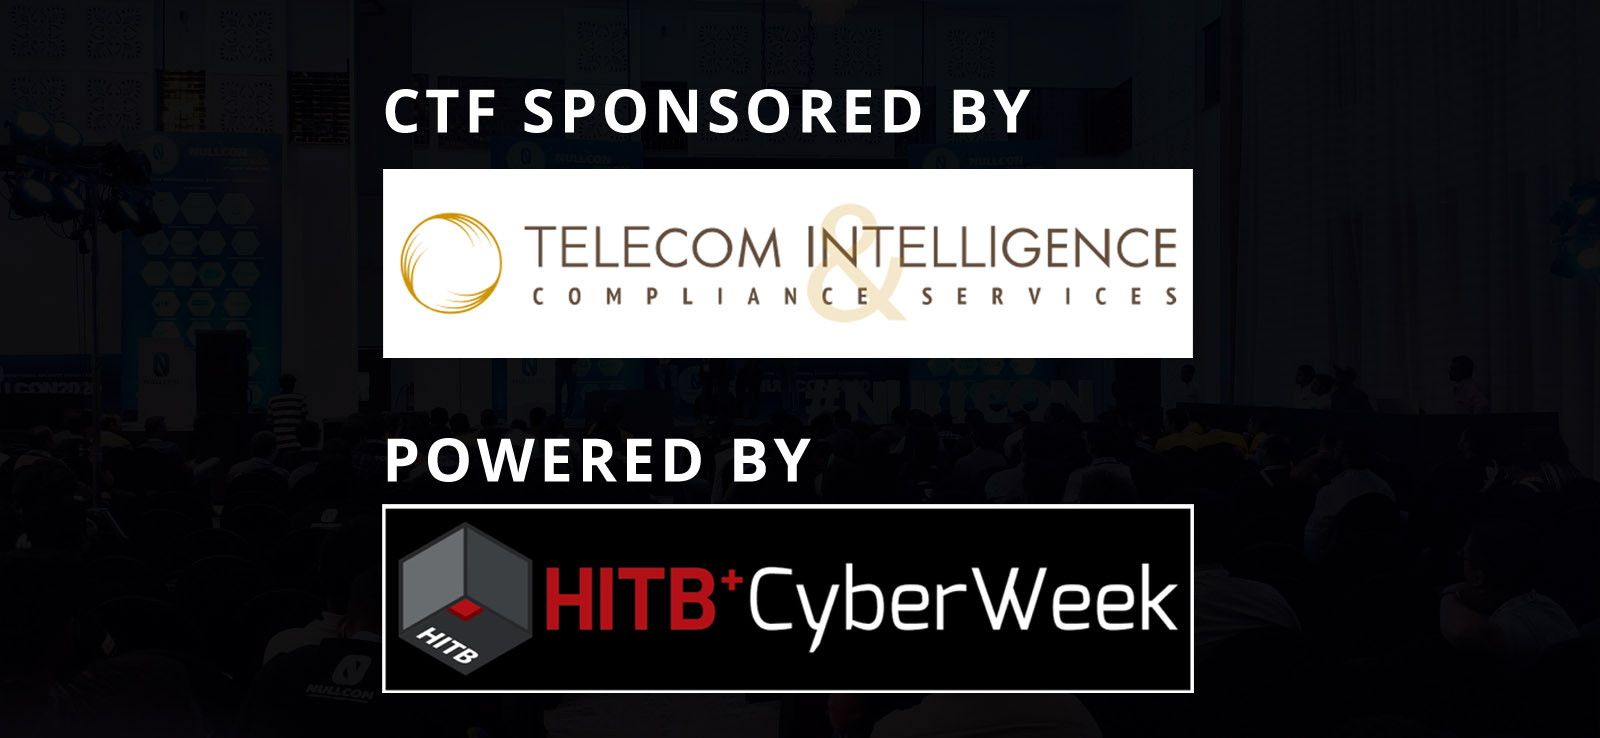
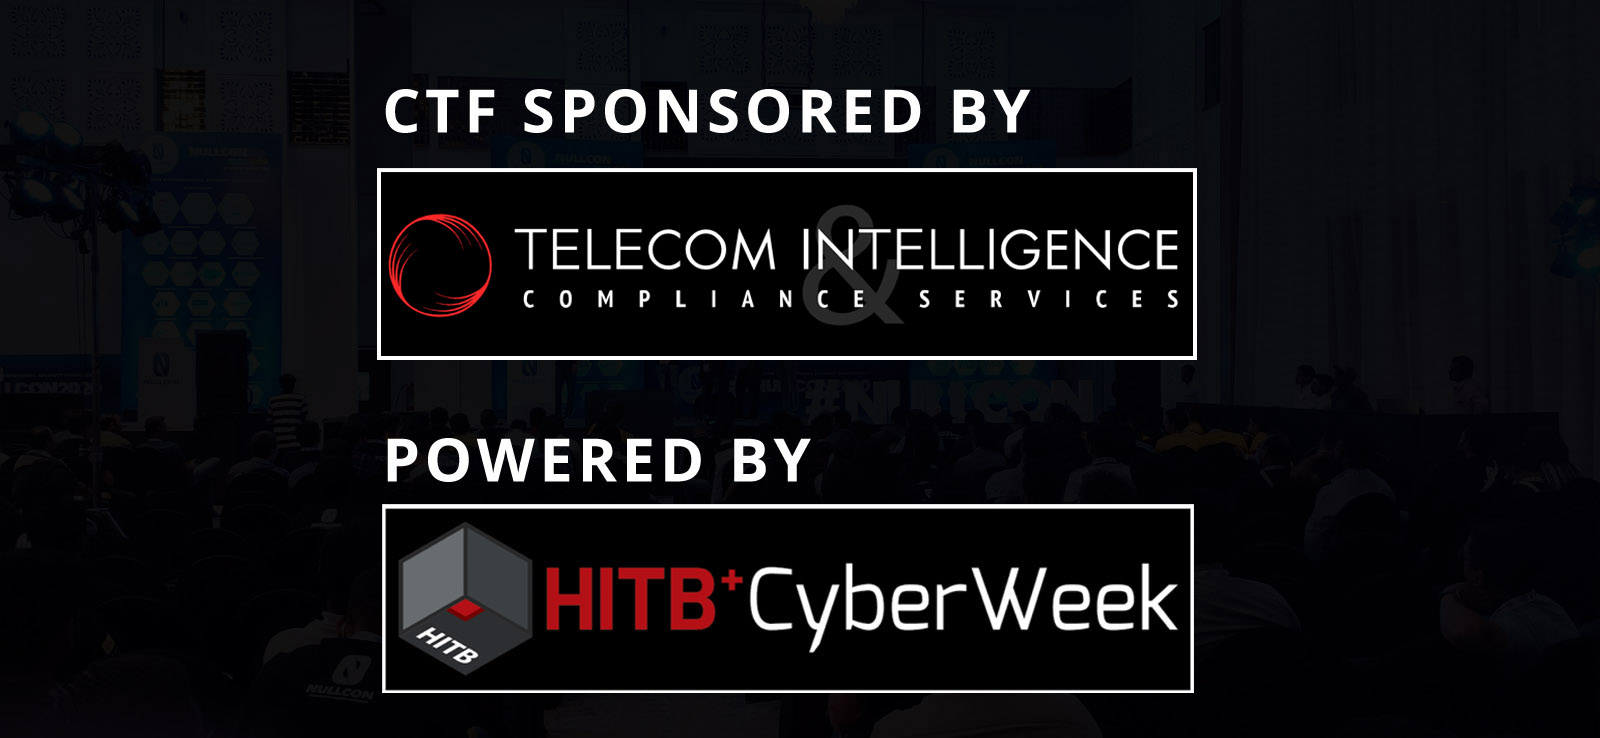
updt

Changed region(s): [[0.2188, 0.2182, 0.75, 0.4986]]

diff --git a/HITB-CyberWeek-2020-Red-vs-Blue-CTF/index.html b/HITB-CyberWeek-2020-Red-vs-Blue-CTF/index.html
@@ -57,7 +57,7 @@ Red Teaming and Adversarial attack simulation tactics."/>
 					<div class="content">
 					
 						<header><h2>
-						<h2 style="font-weight: 1000;">ADVERSARIES vs DEFENDERS <br> CTF COMPETITION<br> NOV 18, 19</h2>
+						<h2 style="font-weight: 1000;">THIRD EDITION OF <br>ADVERSARIES vs DEFENDERS <br> CTF COMPETITION - NOV 18, 19</h2>
 							<!-- <h2>Red Team Village</h2> -->
 							
 							<p><b>Welcoming Red Teams and Blue Teams</b></p><p><b>Upcoming village and CTF at <a href="../Red-Team-Village-HITB-CyberWeek-2020"   target="_blank">HITB CyberWeek</a></b></p>
@@ -92,12 +92,12 @@ Red Teaming and Adversarial attack simulation tactics."/>
 <h2><b style="background-color: blue;">Cash prize for Blue Team 1: USD 1000 <br> Cash prize for Blue Team 2: USD 750</b></h2>
 <hr />
 								<h3>About the CTF Competition</h3>
-								<p>Red Team Village (https://redteamvillage.org) is a community driven combat readiness platform for Red teaming and Adversarial attack simulation assessments. We have been organizing workshops, talks, Demonstrations, open discussions, Capture the flag challenges (CTF) and other exercises at Cyber Security conferences for the past 4 years.<br>
+								<p>Red Team Village<a href="https://redteamvillage.org" target="_blank"> (https://redteamvillage.org)</a> is a community driven combat readiness platform for Red teaming and Adversarial attack simulation assessments. We have been organizing workshops, talks, Demonstrations, open discussions, Capture the flag challenges (CTF) and other exercises at Cyber Security conferences for the past 4 years.<br>
 We build real life CTF scenarios with corporate network architecture and defensive mechanisms. The CTF players needs to do the red teaming against this infrastructure which is protected and monitored by Blue/SoC teams. <br> HITB Red Team Village CTF is going to be a war between Red Teams and Blue Teams. The Adversaries gets to attack targets similar to real life infrastructure and The Blue Teams need to investigate and find the attack path which has been used by the adversaries. Both Red teams and Blue teams will be winners in this CTF.
 
 </p>
 <h4>Venue: <a href="https://cyberweek.ae/2020/" target="_blank"> HITB CyberWeek 2020</a> Virtual</h4>
-<h4>Schedule: 9 AM Nov 18<sup>th</sup> to 5 PM 19<sup>th</sup></h4>
+<h4>Schedule: 9 AM Nov 18<sup>th</sup> to 5 PM 19<sup>th</sup> GST [GMT +4]</h4>
 <hr />
 					
 		

diff --git a/Red-Team-Village-HITB-CyberWeek-2020/index.html b/Red-Team-Village-HITB-CyberWeek-2020/index.html
@@ -83,7 +83,7 @@ Red Teaming and Adversarial attack simulation tactics."/>
 <h3>Village and CTF Sponsor</h3>
 	
 		<div class="row">
-<span class="image fit"><img src="../images/HITB-CyberWeek-2020/tics_logo2019.png" alt="" /></span>
+<span class="image fit"><img src="../images/HITB-CyberWeek-2020/tics_logo_white.svg" alt="" /></span>
 								</div>				
 <hr />	
 <h3>HITB CyberWeek Village Agenda:</h3>
